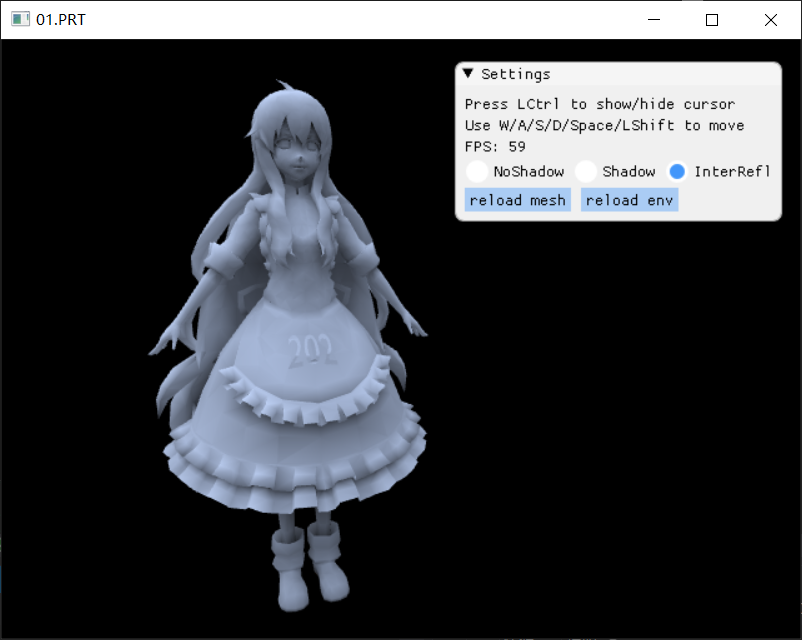
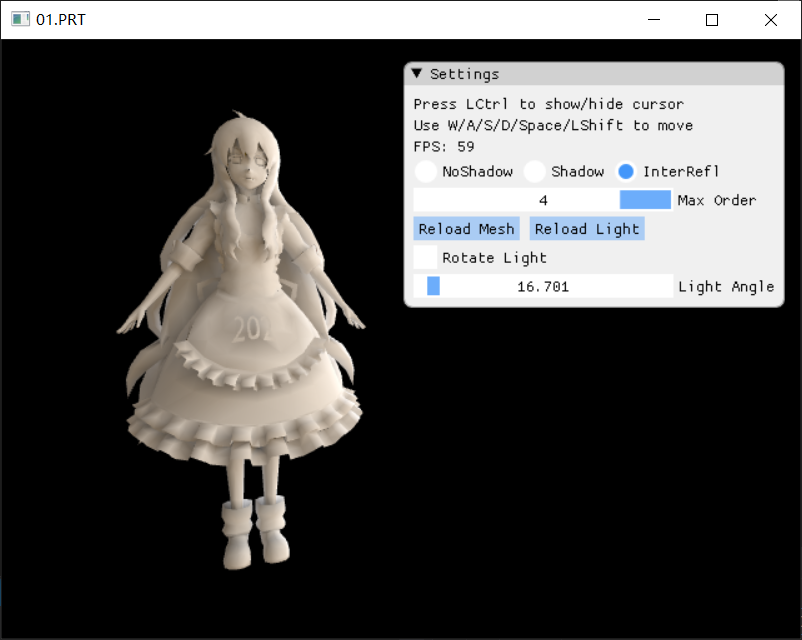
update README.md

diff --git a/README.md b/README.md
@@ -19,7 +19,11 @@ cmake ..
   * PCSS
   * VSM
   * ESM
+  
 - [x] 作业2：基于球谐函数的预计算辐射传输
+  
+  * 球谐系数计算和旋转
+  
   * 无阴影
   * 有阴影
   * 有间接光照
